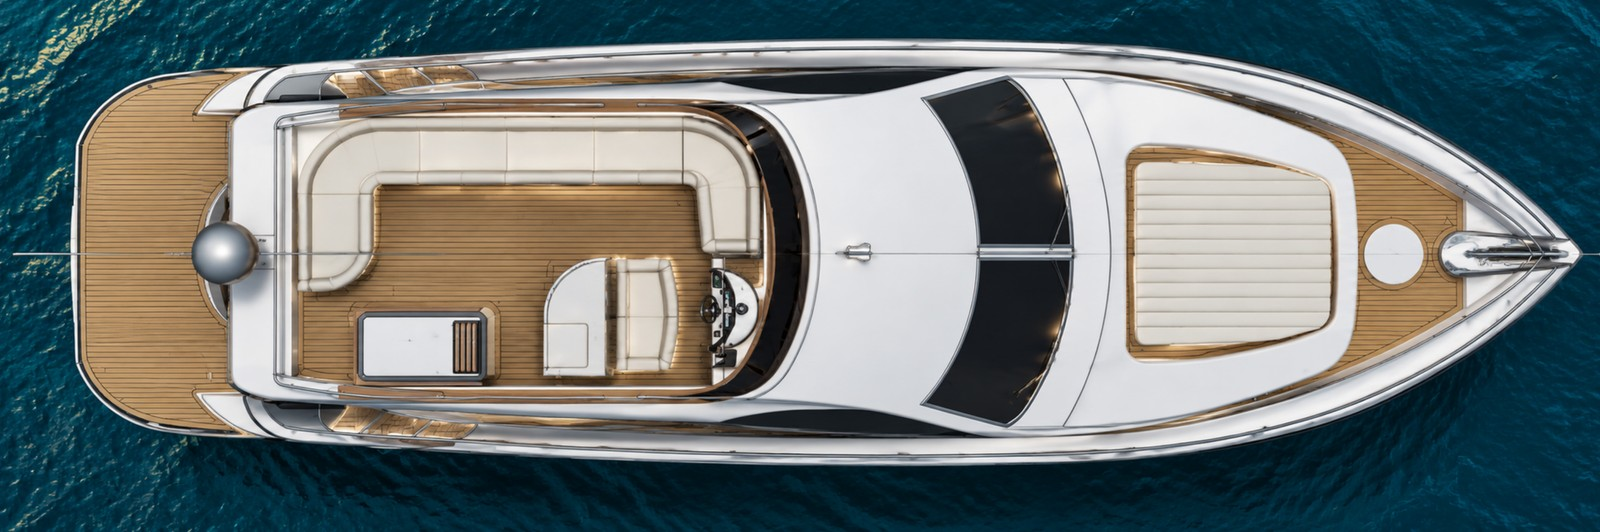
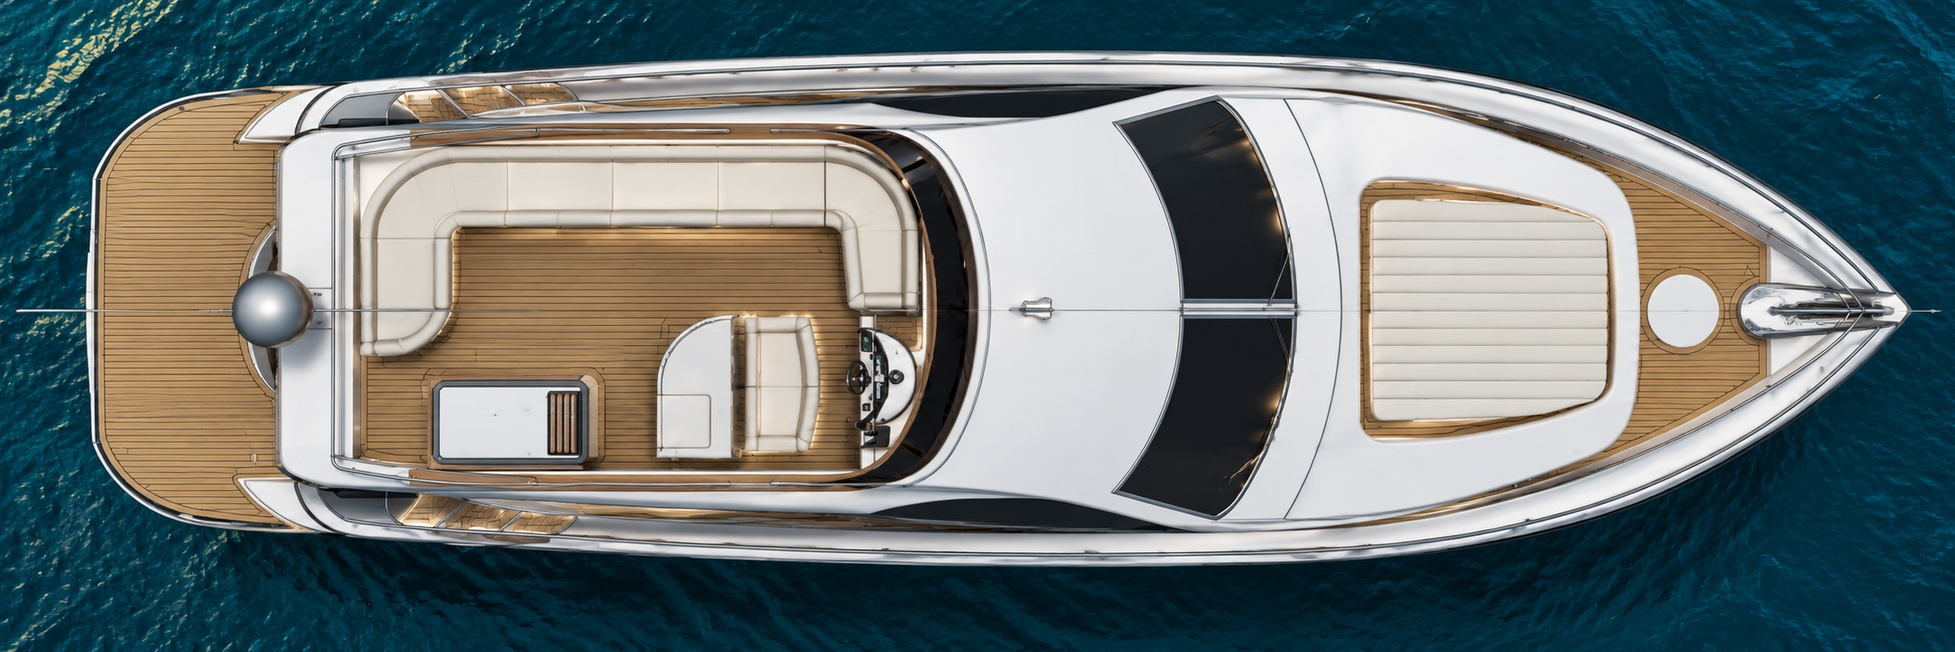
feat(g50): update deck cutaway renders for Main Deck, Lower Deck, and Flybridge

diff --git a/lib/data/defaultYachts.js b/lib/data/defaultYachts.js
@@ -1856,7 +1856,7 @@ export const DEFAULT_YACHTS = [
     ],
     "brochureUrl": "/documents/asmaraty-g50-brochure.pdf",
     "brochureLabel": "Brochure (PDF, 6.9 MB)",
-    "floorplanUrl": "/images/yachts/g50/deck-main.jpg",
+    "floorplanUrl": "/images/yachts/g50/deck-main.png",
     "featured": true,
     "status": "published",
     "displayOrder": 4,
@@ -2176,7 +2176,7 @@ export const DEFAULT_YACHTS = [
         "id": "main-deck",
         "name": "Main Deck",
         "subtitle": "Panoramic Saloon, Galley & Wheelhouse",
-        "image3D": "/images/yachts/g50/deck-main.jpg",
+        "image3D": "/images/yachts/g50/deck-main.png",
         "caption": "3D Cutaway — Open-Plan Saloon, Gourmet Galley, Pilot House & Aft Cockpit",
         "features": [
           "Air-conditioned open-plan saloon with U-shaped cream leather sofa and designer coffee table",
@@ -2191,7 +2191,7 @@ export const DEFAULT_YACHTS = [
         "id": "lower-deck",
         "name": "Lower Accommodations",
         "subtitle": "3 Staterooms & 2 Bathrooms (6 Berths)",
-        "image3D": "/images/yachts/g50/deck-lower.jpg",
+        "image3D": "/images/yachts/g50/deck-lower.png",
         "caption": "3D Cutaway — Forward Master Suite, Port & Starboard Guest Cabins & Engine Room",
         "features": [
           "Forward Owner's Master Suite with queen island bed (150×200cm), slatted mattress & 40\" smart TV",
@@ -2206,7 +2206,7 @@ export const DEFAULT_YACHTS = [
         "id": "flybridge",
         "name": "Flybridge Deck",
         "subtitle": "Sky Lounge, Upper Helm & Wet Bar",
-        "image3D": "/images/yachts/g50/deck-flybridge.jpg",
+        "image3D": "/images/yachts/g50/deck-flybridge.png",
         "caption": "3D Cutaway — Upper Sky Lounge, Secondary Helm Station & Teak Terrace",
         "features": [
           "Secondary helm station with full engine instrumentation, compass, and rudder angle indicator",

diff --git a/lib/data/yachtShowcaseData.js b/lib/data/yachtShowcaseData.js
@@ -1034,7 +1034,7 @@ export const YACHT_SHOWCASES = {
         id: "main-deck",
         name: "Main Deck",
         subtitle: "Panoramic Saloon, Galley & Wheelhouse",
-        image3D: "/images/yachts/g50/deck-main.jpg",
+        image3D: "/images/yachts/g50/deck-main.png",
         caption: "3D Cutaway — Open-Plan Saloon, Gourmet Galley, Pilot House & Aft Cockpit",
         features: [
           "Air-conditioned open-plan saloon with U-shaped cream leather sofa and designer coffee table",
@@ -1049,7 +1049,7 @@ export const YACHT_SHOWCASES = {
         id: "lower-deck",
         name: "Lower Accommodations",
         subtitle: "3 Staterooms & 2 Bathrooms (6 Berths)",
-        image3D: "/images/yachts/g50/deck-lower.jpg",
+        image3D: "/images/yachts/g50/deck-lower.png",
         caption: "3D Cutaway — Forward Master Suite, Port & Starboard Guest Cabins & Engine Room",
         features: [
           "Forward Owner's Master Suite with queen island bed (150×200cm), slatted mattress & 40\" smart TV",
@@ -1064,7 +1064,7 @@ export const YACHT_SHOWCASES = {
         id: "flybridge",
         name: "Flybridge Deck",
         subtitle: "Sky Lounge, Upper Helm & Wet Bar",
-        image3D: "/images/yachts/g50/deck-flybridge.jpg",
+        image3D: "/images/yachts/g50/deck-flybridge.png",
         caption: "3D Cutaway — Upper Sky Lounge, Secondary Helm Station & Teak Terrace",
         features: [
           "Secondary helm station with full engine instrumentation, compass, and rudder angle indicator",

diff --git a/lib/cmsStore.js b/lib/cmsStore.js
@@ -13,7 +13,7 @@ const
   STORAGE_KEYS = {
     PAGES: "asm_cms_pages_v25",
     DRAFTS: "asm_cms_drafts_v16",
-    YACHTS: "asm_cms_yachts_v19",
+    YACHTS: "asm_cms_yachts_v20",
     MEDIA: "asm_cms_media_v8",
     SETTINGS: "asm_cms_settings_v10",
     ARTICLES: "asm_cms_articles_v7",
